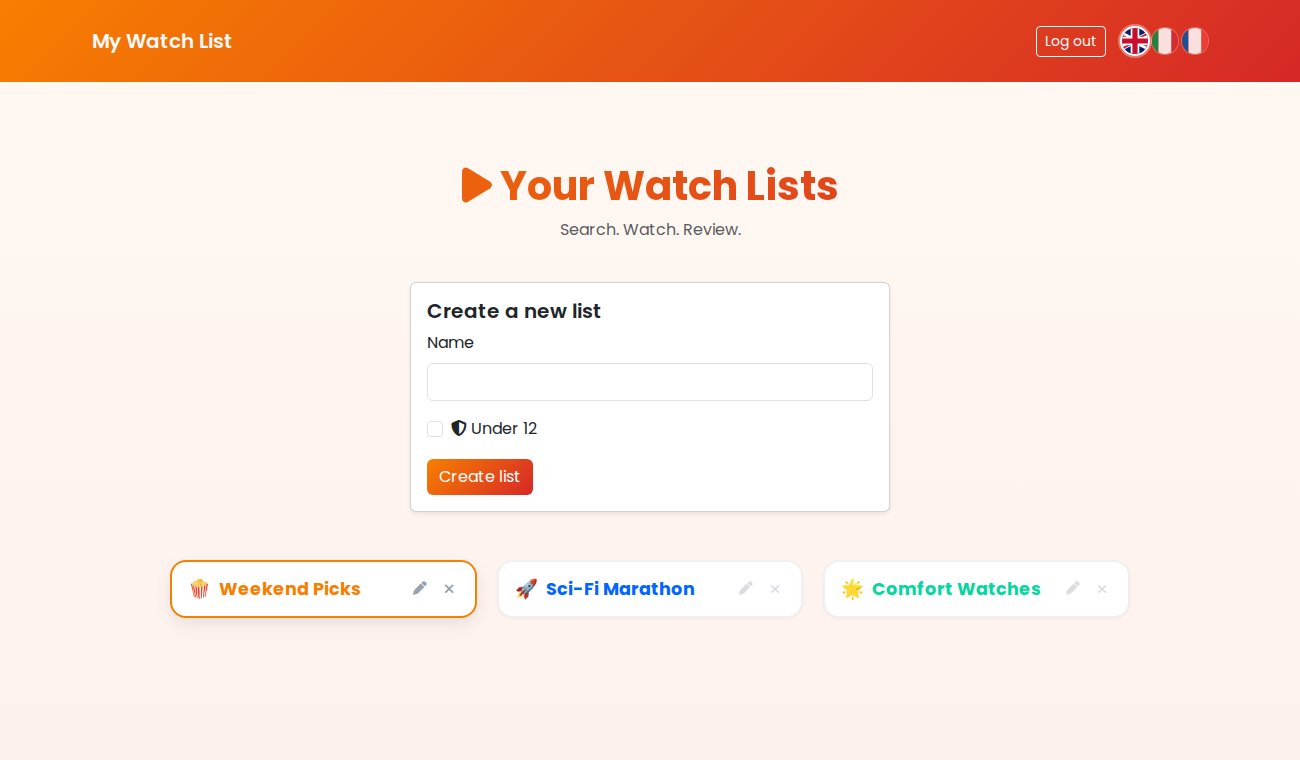
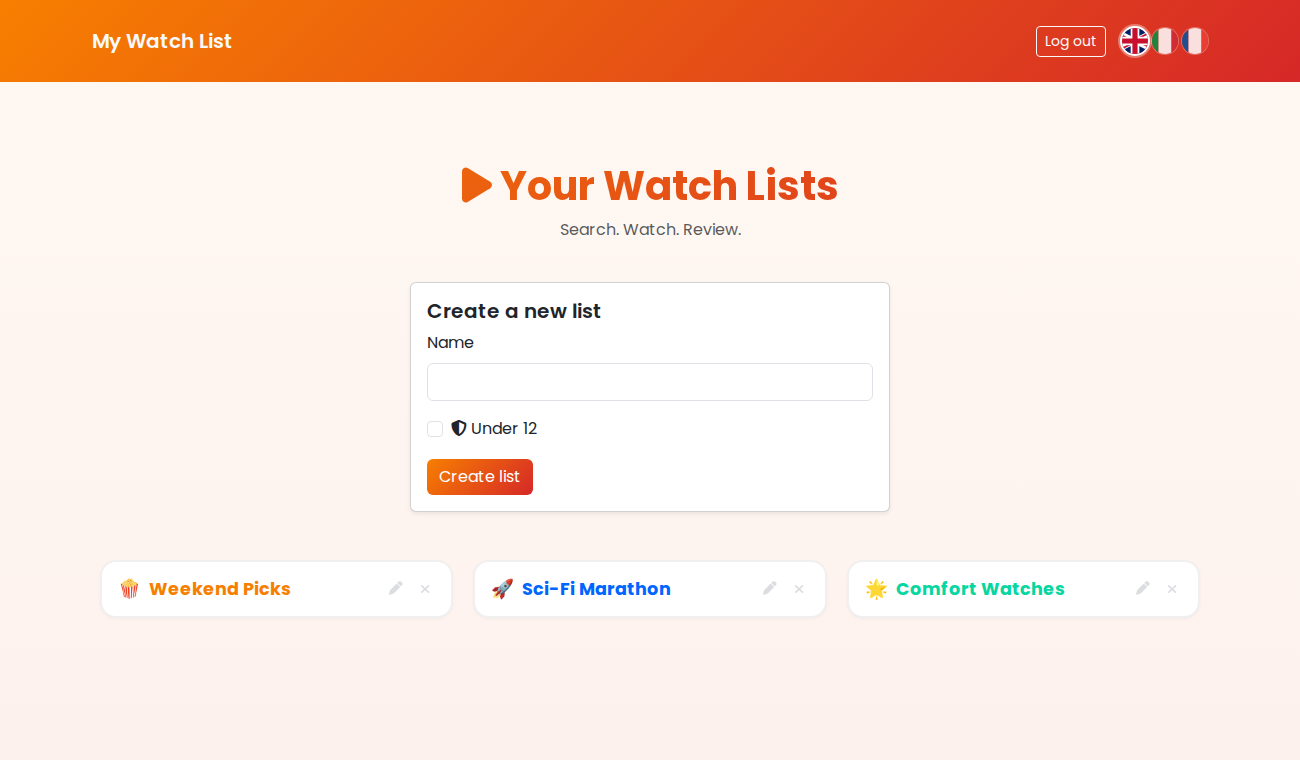
Refresh screenshots and note large-screen scaling in the README
Add a shot of the sign-in screen (it now carries a one-line description
of the app), regenerate the home screenshot for the current spacing, and
document the large-screen layout scaling under Design decisions. English
and French.

diff --git a/README.fr.md b/README.fr.md
@@ -14,6 +14,8 @@ Inscris-toi avec n'importe quel e-mail, ou utilise le compte de démo prêt à l
 | --- | --- |
 | `demo@watchlist.dev` | `moviebuff` |
 
+![L'écran de connexion : le nom de l'app, une phrase qui décrit ce qu'elle fait, et les drapeaux de langue](docs/screenshot-login.png)
+
 ![Une liste avec ses sections À voir et Vus, des affiches de films, des badges de genre, des notes en étoiles et des critiques](docs/screenshot-list.jpg)
 
 ![La page d'accueil : un formulaire de création de liste, les listes en couleurs en dessous, et les drapeaux de langue dans l'en-tête](docs/screenshot-home.png)
@@ -92,6 +94,13 @@ code le dit aussi.
   [`app/javascript`](app/javascript) via importmap — pas de Node, pas de bundler
   dans la chaîne. Turbo et une poignée de petits contrôleurs Stimulus constituent
   tout le front-end.
+
+- **Une mise en page qui s'adapte aux grands écrans.** Bootstrap plafonne son
+  conteneur à 1320px, donc sur un grand moniteur toute l'interface se retrouvait
+  minuscule au centre de la page. Au-delà de 1500px puis de 2000px, le conteneur
+  s'élargit et la taille de police de base augmente, pour que la page grandisse
+  avec l'écran ; la grille de films et le menu des listes gagnent aussi une
+  quatrième colonne quand la place le permet.
 
 - **Un service object pour TMDb.** Chaque appel HTTP et la logique « ce titre
   est-il pour adultes ? » vivent dans une seule classe,

diff --git a/README.md b/README.md
@@ -14,6 +14,8 @@ Sign up with any email, or use the ready-made demo account:
 | --- | --- |
 | `demo@watchlist.dev` | `moviebuff` |
 
+![The sign-in screen: the app name, a one-line description of what it does, and the language flags](docs/screenshot-login.png)
+
 ![A watch list with its To Watch and Watched sections, movie posters, genre badges, star ratings and reviews](docs/screenshot-list.jpg)
 
 ![The home page: a form to create a list, the colour-coded lists below it, and the language flags in the header](docs/screenshot-home.png)
@@ -90,6 +92,12 @@ too.
   [`app/javascript`](app/javascript) through importmap — no Node, no bundler in
   the pipeline. Turbo plus a handful of small Stimulus controllers are the whole
   front-end.
+
+- **Layout that scales on large screens.** Bootstrap caps its container at
+  1320px, so on a wide monitor the whole UI sat tiny in the middle of the page.
+  Past 1500px and again past 2000px the container widens and the root font size
+  steps up, so the page grows with the screen; the movie grid and list menu also
+  gain a fourth column when there's room.
 
 - **A service object for TMDb.** Every HTTP call and the "is this an adult title?"
   logic live in one class,
